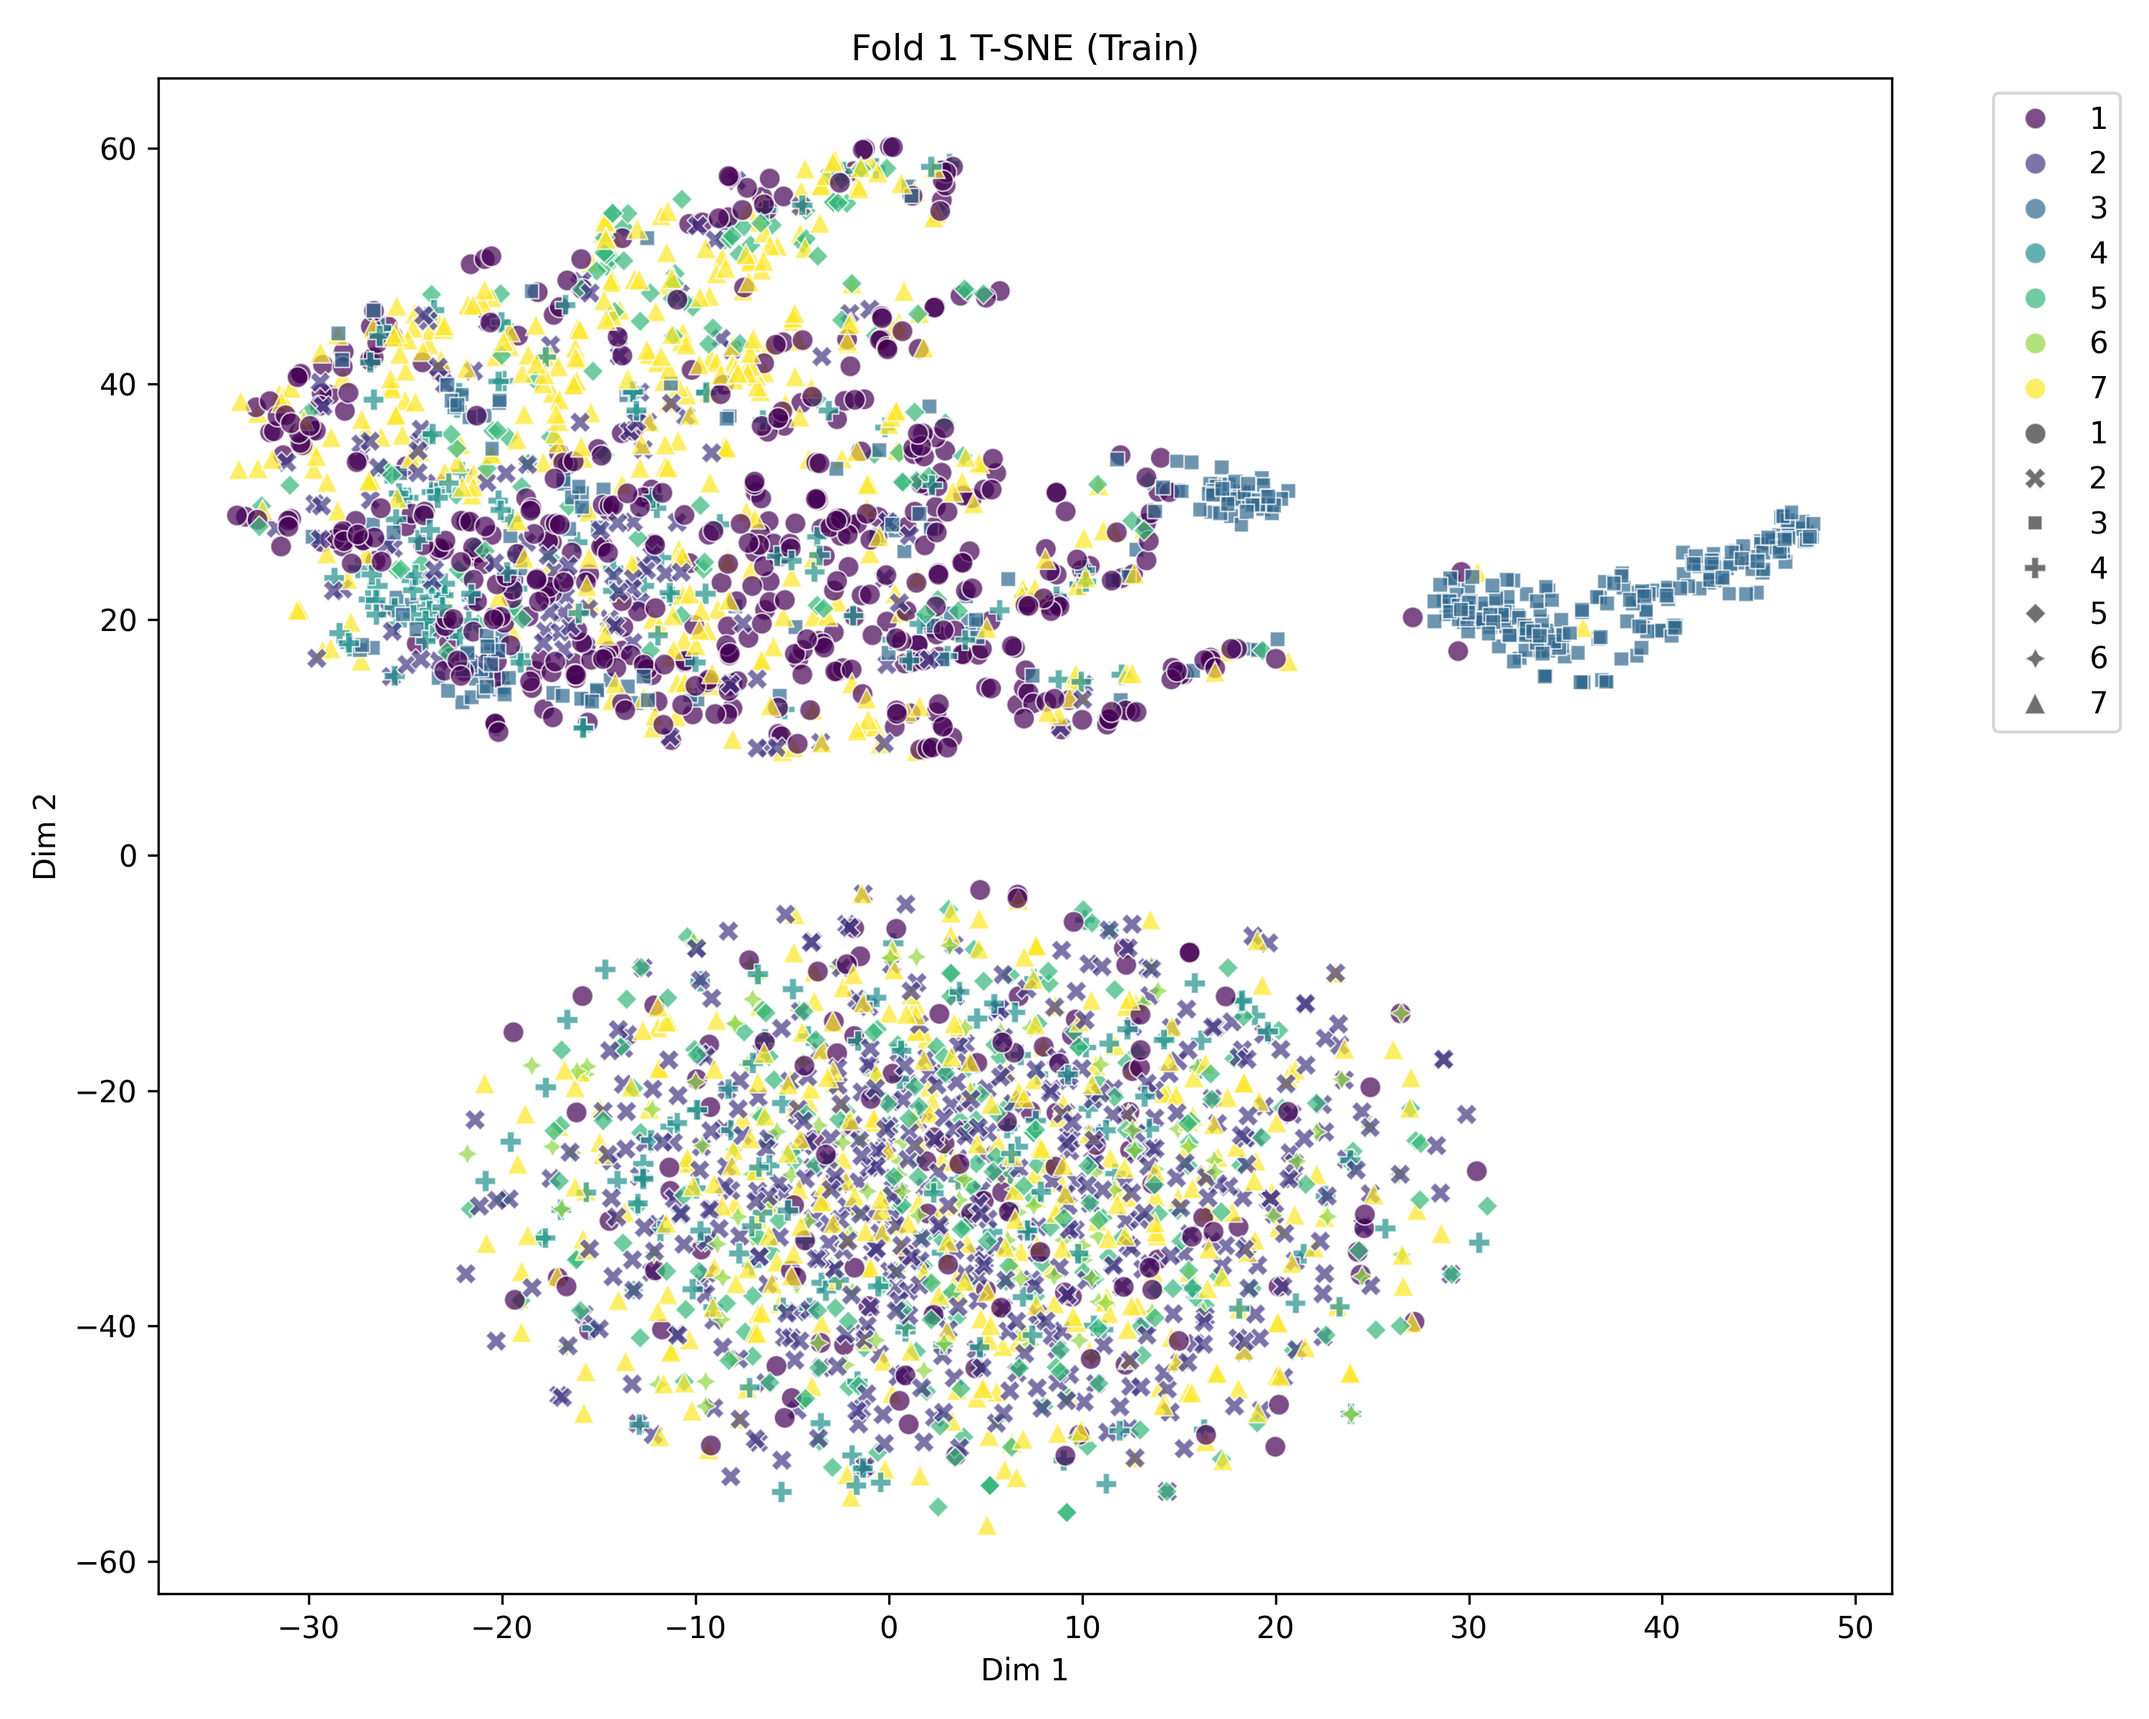
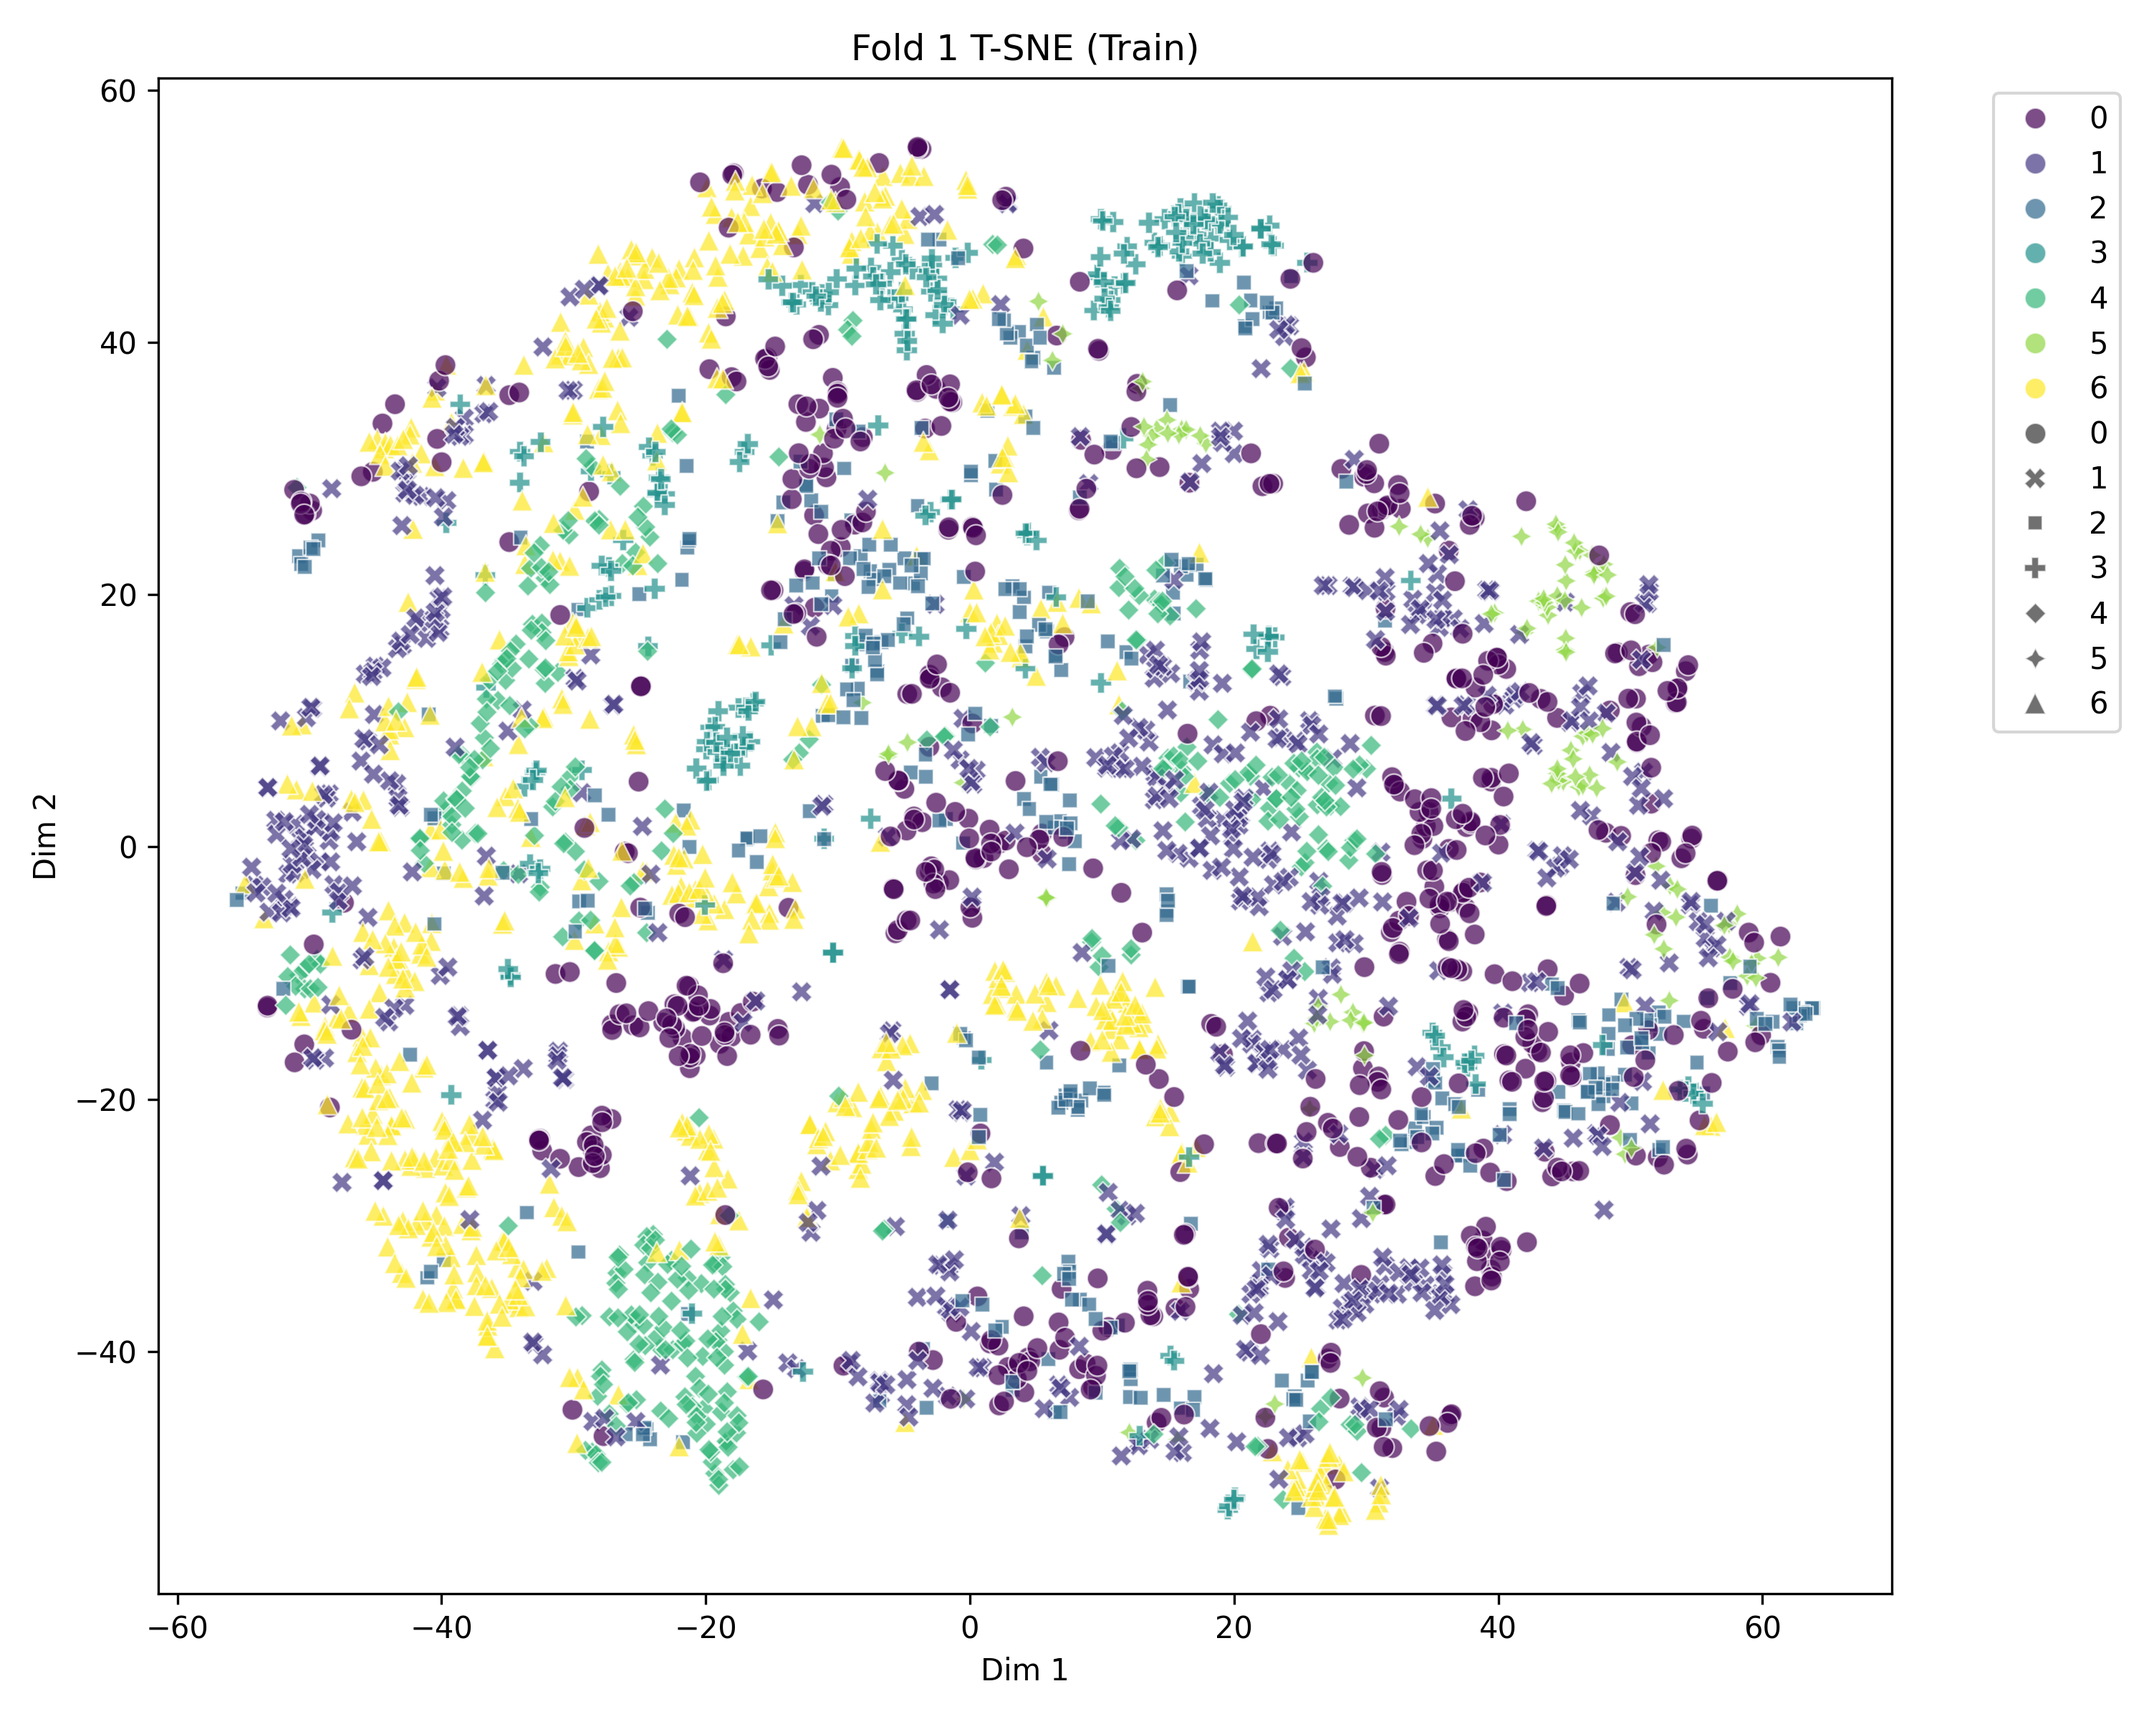
final

diff --git a/ts2vec_modified_pipeline.py b/ts2vec_modified_pipeline.py
@@ -674,8 +674,8 @@ def main():
                 k=5,
                 epoch=100,
                 batch_size=64,
-                hidden_dim=64,
-                output_dim=32,
+                hidden_dim=128,
+                output_dim=128,
                 device=device,
                 output_dir=output_dir
             )    
